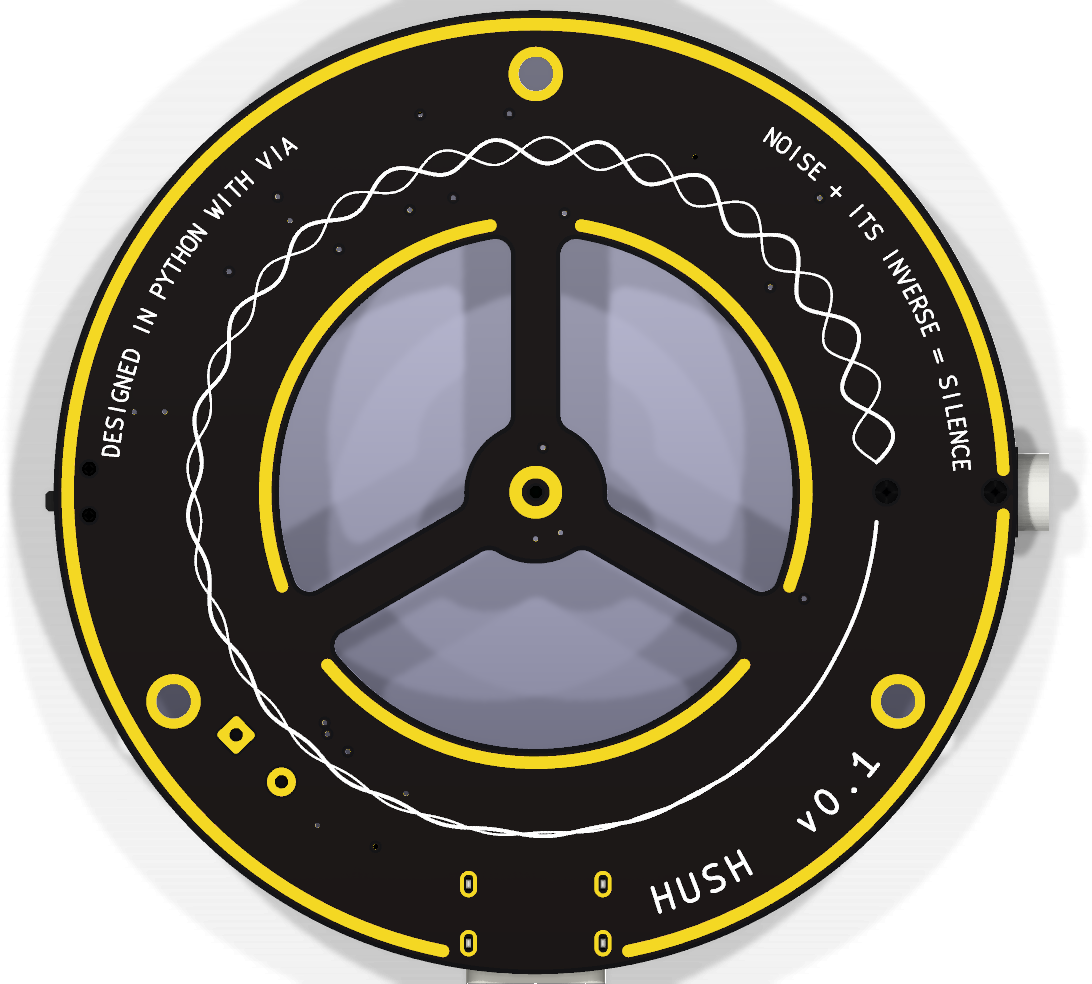
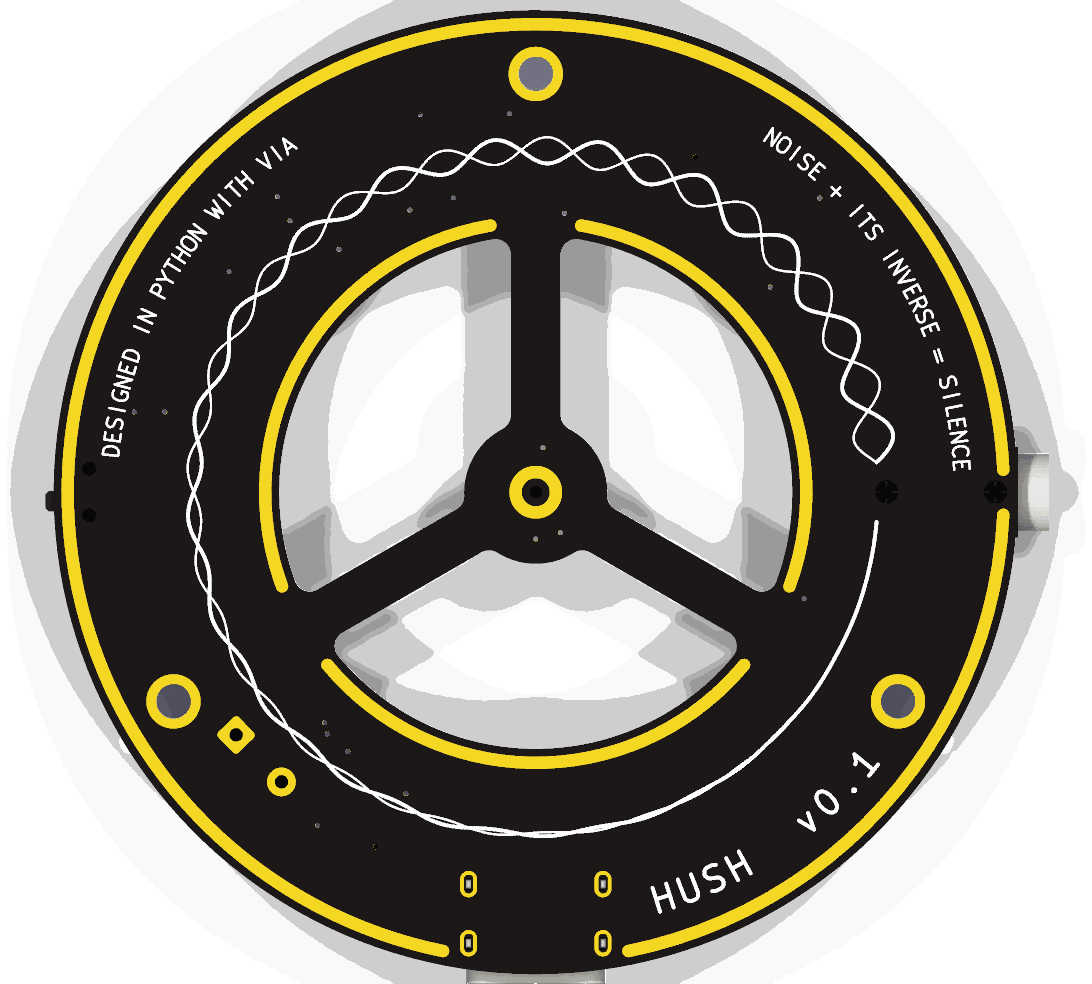
Site: lighter example pictures, Hush's openings clear, Signet led by its card
Each example picture is written in 256 colours with a clear palette slot,
at most twice as wide as a page shows it: a card is 23 to 78 KB, from up to
944 KB, and iso.png, which no page showed, is gone. A board with openings of
25 mm² or more through its outline has the backdrop it encloses taken out,
with the shadow round it, so Hush's ring shows the page through its
windows. A turning render whose frames cut the thing off is left out, and
the card's picture leads the page instead (Signet).

Changed region(s): [[0.4982, 0.2439, 0.7473, 0.6098], [0.3114, 0.5488, 0.685, 0.7622], [0.2491, 0.2439, 0.467, 0.6098]]

diff --git a/site/examples.html b/site/examples.html
@@ -76,7 +76,7 @@
             <p class="lede">Each example is a complete KiCad project in this repository, designed with Via from a Python design file. Open one to turn it in 3D, explore every track on the board, and read how it was built.</p>
           </div>
           <div class="built" data-reveal data-stagger>
-            <a class="proj" href="examples/hush.html"><div class="shot3d"><img src="examples/hush/iso.png" width="1101" height="821" loading="lazy" alt="Hush in 3D"></div><div><h3>Hush</h3><p>Hush is a speaker that listens to the room and plays the inverse wave.</p><p class="spec">v0.1 · 62 × 62 mm · 4 layers · 62 parts</p></div></a><a class="proj" href="examples/herald.html"><div class="shot3d"><img src="examples/herald/iso.png" width="1200" height="837" loading="lazy" alt="Herald in 3D"></div><div><h3>Herald</h3><p>A fire alarm communicator.</p><p class="spec">v0.1 · 84.4 × 64 mm · 4 layers · 127 parts</p></div></a><a class="proj" href="examples/signet.html"><div class="shot3d"><img src="examples/signet/iso.png" width="1113" height="851" loading="lazy" alt="Signet in 3D"></div><div><h3>Signet</h3><p>A mouse you wear as a ring.</p><p class="spec">v0.4 · GREEN on all 6 boards</p></div></a><a class="proj" href="examples/wyvern.html"><div class="shot3d"><img src="examples/wyvern/iso.png" width="1200" height="825" loading="lazy" alt="Wyvern in 3D"></div><div><h3>Wyvern</h3><p>A development board with a Snapdragon on it, on one flat board.</p><p class="spec">v0.2 · 76.2 × 53.3 mm · 6 layers · 94 parts</p></div></a><a class="proj" href="examples/basalt.html"><div class="shot3d"><img src="examples/basalt/iso.png" width="1200" height="778" loading="lazy" alt="Basalt in 3D"></div><div><h3>Basalt</h3><p>Basalt is a microATX motherboard for an AMD Threadripper 7000 or 9000 on the sTR5 socket (the TRX50 platform).</p><p class="spec">v0.3 · 243.8 × 243.8 mm · 10 layers · 179 parts</p></div></a><a class="proj" href="examples/rosetta.html"><div class="shot3d"><img src="examples/rosetta/iso.png" width="935" height="655" loading="lazy" alt="Rosetta in 3D"></div><div><h3>Rosetta</h3><p>A universal game controller, as a controller&#x27;s own main board.</p><p class="spec">v0.2 · 145.5 × 82 mm · 6 layers · 135 parts</p></div></a>
+            <a class="proj" href="examples/hush.html"><div class="shot3d"><img src="examples/hush/card.png" width="760" height="476" loading="lazy" alt="Hush in 3D"></div><div><h3>Hush</h3><p>Hush is a speaker that listens to the room and plays the inverse wave.</p><p class="spec">v0.1 · 62 × 62 mm · 4 layers · 62 parts</p></div></a><a class="proj" href="examples/herald.html"><div class="shot3d"><img src="examples/herald/card.png" width="760" height="530" loading="lazy" alt="Herald in 3D"></div><div><h3>Herald</h3><p>A fire alarm communicator.</p><p class="spec">v0.1 · 84.4 × 64 mm · 4 layers · 127 parts</p></div></a><a class="proj" href="examples/signet.html"><div class="shot3d"><img src="examples/signet/card.png" width="760" height="581" loading="lazy" alt="Signet in 3D"></div><div><h3>Signet</h3><p>A mouse you wear as a ring.</p><p class="spec">v0.4 · GREEN on all 6 boards</p></div></a><a class="proj" href="examples/wyvern.html"><div class="shot3d"><img src="examples/wyvern/card.png" width="760" height="522" loading="lazy" alt="Wyvern in 3D"></div><div><h3>Wyvern</h3><p>A development board with a Snapdragon on it, on one flat board.</p><p class="spec">v0.2 · 76.2 × 53.3 mm · 6 layers · 94 parts</p></div></a><a class="proj" href="examples/basalt.html"><div class="shot3d"><img src="examples/basalt/card.png" width="760" height="493" loading="lazy" alt="Basalt in 3D"></div><div><h3>Basalt</h3><p>Basalt is a microATX motherboard for an AMD Threadripper 7000 or 9000 on the sTR5 socket (the TRX50 platform).</p><p class="spec">v0.3 · 243.8 × 243.8 mm · 10 layers · 179 parts</p></div></a><a class="proj" href="examples/rosetta.html"><div class="shot3d"><img src="examples/rosetta/card.png" width="760" height="532" loading="lazy" alt="Rosetta in 3D"></div><div><h3>Rosetta</h3><p>A universal game controller, as a controller&#x27;s own main board.</p><p class="spec">v0.2 · 145.5 × 82 mm · 6 layers · 135 parts</p></div></a>
           </div>
         </div>
       </section>

diff --git a/site/index.html b/site/index.html
@@ -414,23 +414,23 @@ PASS   export     4/4 outputs, 24 gerber files  [1.55s]</span>
           </div>
           <div class="built" data-reveal data-stagger>
             <a class="proj" href="examples/herald.html">
-              <div class="shot3d"><img src="examples/herald/card.png" width="1200" height="837" loading="lazy" alt="Herald in 3D: a red board with an LTE-M module, a nano SIM, an ESP32-S3 module, a relay, status lights and black screw terminals"></div>
+              <div class="shot3d"><img src="examples/herald/card.png" width="760" height="530" loading="lazy" alt="Herald in 3D: a red board with an LTE-M module, a nano SIM, an ESP32-S3 module, a relay, status lights and black screw terminals"></div>
               <div><h3>Herald</h3><p>A fire alarm communicator that answers the panel's dialer as a phone line and reports over LTE-M or Wi-Fi.</p><p class="spec">84.4 × 64 mm · 4 layers · 127 parts</p></div>
             </a>
             <a class="proj" href="examples/hush.html">
-              <div class="shot3d"><img src="examples/hush/card.png" width="1200" height="751" loading="lazy" alt="Hush in 3D on its speaker: a black ring with 3 spokes to a microphone on the hub, parts round the ring, a line-in jack and a USB-C port at the edge"></div>
+              <div class="shot3d"><img src="examples/hush/card.png" width="760" height="476" loading="lazy" alt="Hush in 3D on its speaker: a black ring with 3 spokes to a microphone on the hub, parts round the ring, a line-in jack and a USB-C port at the edge"></div>
               <div><h3>Hush</h3><p>A speaker that cancels noise. A microphone in front of the cone drives an analog loop that plays back the inverse of what it hears.</p><p class="spec">62 mm across · 4 layers · 62 parts</p></div>
             </a>
             <a class="proj" href="examples/signet.html">
-              <div class="shot3d"><img src="examples/signet/card.png" width="1113" height="851" loading="lazy" alt="Signet in 3D: 6 black boards in a hexagonal ring, soldered edge to edge, the radio module on top and a foil cell at the bottom"></div>
+              <div class="shot3d"><img src="examples/signet/card.png" width="760" height="581" loading="lazy" alt="Signet in 3D: 6 black boards in a hexagonal ring, soldered edge to edge, the radio module on top and a foil cell at the bottom"></div>
               <div><h3>Signet</h3><p>A mouse worn as a ring. The cursor follows your hand, and your thumb scrolls and clicks.</p><p class="spec">6 boards around the finger · 4 layers each · 57 parts</p></div>
             </a>
             <a class="proj" href="examples/rosetta.html">
-              <div class="shot3d"><img src="examples/rosetta/card.png" width="935" height="655" loading="lazy" alt="Rosetta, the universal controller, in 3D: an Xbox 360-style board with 2 thumbsticks and a knob"></div>
+              <div class="shot3d"><img src="examples/rosetta/card.png" width="760" height="532" loading="lazy" alt="Rosetta, the universal controller, in 3D: an Xbox 360-style board with 2 thumbsticks and a knob"></div>
               <div><h3>Rosetta</h3><p>A game controller with a selector knob that switches between consoles, laid out like an Xbox 360 controller.</p><p class="spec">148 × 82 mm · 6 layers · 135 parts</p></div>
             </a>
             <a class="proj" href="examples/wyvern.html">
-              <div class="shot3d"><img src="examples/wyvern/card.png" width="1200" height="825" loading="lazy" alt="Wyvern v0.2 in 3D: one flat black board with 2 rows of 30 pins, a USB-C port and the QCS6490 module soldered on top"></div>
+              <div class="shot3d"><img src="examples/wyvern/card.png" width="760" height="522" loading="lazy" alt="Wyvern v0.2 in 3D: one flat black board with 2 rows of 30 pins, a USB-C port and the QCS6490 module soldered on top"></div>
               <div><h3>Wyvern</h3><p>A Snapdragon development board on one flat board: a QCS6490 module soldered on by its 662 pads, an RP2350 on the pins, and USB 3 over one USB-C port.</p><p class="spec">76 × 53 mm · 6 layers</p></div>
             </a>
             <a class="proj" href="https://github.com/ThyFriendlyFox/agentcast-prototype">

diff --git a/site/examples/signet.html b/site/examples/signet.html
@@ -78,13 +78,10 @@
             <p class="lede">Six small boards sit on the faces of a hexagonal ring round the index finger, each soldered to the next along its edge. Turn the ring's crown toward the thumb: the ring turns with the hand and the cursor follows its gyroscope; the thumb slides along the scroll strip to scroll, and presses the clicks tile for the left and the right button. The ring talks Bluetooth LE to the computer as an ordinary HID mouse and charges on a post through 2 pads inside it.</p>
             <ul class="chips" aria-label="The board"><li>v0.4</li><li class="ok">GREEN on all 6 boards</li></ul>
           </div>
-          <div class="turntable" data-turntable data-frames="36" data-columns="6" tabindex="0" role="img" aria-label="Signet in 3D, turning; drag or use the arrow keys to turn it">
-            <div class="tt-frames" style="aspect-ratio:616 / 368;background-image:url(signet/spin.webp)"></div>
-          </div>
-          <p class="tt-hint">Drag to turn the board. KiCad's render of it, 36 views, 10 degrees apart.</p>
+          <figure class="lead"><img src="signet/card.png" width="760" height="581" alt="Signet in 3D"><figcaption>KiCad's render of it.</figcaption></figure>
           <div class="stills">
-            <figure><img src="signet/top.png" width="1168" height="984" loading="lazy" alt="Signet, from above"><figcaption>From above</figcaption></figure>
-            <figure><img src="signet/bottom.png" width="1118" height="846" loading="lazy" alt="Signet, from behind"><figcaption>From behind</figcaption></figure>
+            <figure><img src="signet/top.png" width="1100" height="927" loading="lazy" alt="Signet, from above"><figcaption>From above</figcaption></figure>
+            <figure><img src="signet/bottom.png" width="1100" height="832" loading="lazy" alt="Signet, from behind"><figcaption>From behind</figcaption></figure>
           </div>
         </div>
       </section>

diff --git a/site/examples/wyvern.html b/site/examples/wyvern.html
@@ -83,8 +83,8 @@
           </div>
           <p class="tt-hint">Drag to turn the board. KiCad's render of it, 36 views, 10 degrees apart.</p>
           <div class="stills">
-            <figure><img src="wyvern/top.png" width="1136" height="811" loading="lazy" alt="Wyvern, the front"><figcaption>The front</figcaption></figure>
-            <figure><img src="wyvern/bottom.png" width="1110" height="821" loading="lazy" alt="Wyvern, the back"><figcaption>The back</figcaption></figure>
+            <figure><img src="wyvern/top.png" width="1100" height="785" loading="lazy" alt="Wyvern, the front"><figcaption>The front</figcaption></figure>
+            <figure><img src="wyvern/bottom.png" width="1100" height="814" loading="lazy" alt="Wyvern, the back"><figcaption>The back</figcaption></figure>
           </div>
         </div>
       </section>

diff --git a/site/examples/rosetta.html b/site/examples/rosetta.html
@@ -84,7 +84,7 @@
           <p class="tt-hint">Drag to turn the board. KiCad's render of it, 36 views, 10 degrees apart.</p>
           <div class="stills">
             <figure><img src="rosetta/top.png" width="1033" height="639" loading="lazy" alt="Rosetta, the front"><figcaption>The front</figcaption></figure>
-            <figure><img src="rosetta/bottom.png" width="1130" height="708" loading="lazy" alt="Rosetta, the back"><figcaption>The back</figcaption></figure>
+            <figure><img src="rosetta/bottom.png" width="1100" height="689" loading="lazy" alt="Rosetta, the back"><figcaption>The back</figcaption></figure>
           </div>
         </div>
       </section>

diff --git a/site/examples/basalt.html b/site/examples/basalt.html
@@ -84,7 +84,7 @@
           <p class="tt-hint">Drag to turn the board. KiCad's render of it, 36 views, 10 degrees apart.</p>
           <div class="stills">
             <figure><img src="basalt/top.png" width="1099" height="984" loading="lazy" alt="Basalt, the front"><figcaption>The front</figcaption></figure>
-            <figure><img src="basalt/bottom.png" width="1154" height="984" loading="lazy" alt="Basalt, the back"><figcaption>The back</figcaption></figure>
+            <figure><img src="basalt/bottom.png" width="1100" height="938" loading="lazy" alt="Basalt, the back"><figcaption>The back</figcaption></figure>
           </div>
         </div>
       </section>

diff --git a/site/examples/herald.html b/site/examples/herald.html
@@ -84,7 +84,7 @@
           <p class="tt-hint">Drag to turn the board. KiCad's render of it, 36 views, 10 degrees apart.</p>
           <div class="stills">
             <figure><img src="herald/top.png" width="1082" height="818" loading="lazy" alt="Herald, the front"><figcaption>The front</figcaption></figure>
-            <figure><img src="herald/bottom.png" width="1103" height="864" loading="lazy" alt="Herald, the back"><figcaption>The back</figcaption></figure>
+            <figure><img src="herald/bottom.png" width="1100" height="862" loading="lazy" alt="Herald, the back"><figcaption>The back</figcaption></figure>
           </div>
         </div>
       </section>

diff --git a/site/site.css b/site/site.css
@@ -2135,11 +2135,22 @@ html:not(.motion) .wordmark .wm-pt,
   font-size: 0.8125rem;
   color: var(--muted-foreground);
 }
+.lead {
+  max-width: 40rem;
+  margin: 2.5rem auto 0;
+}
+.lead figcaption {
+  margin-top: 0.75rem;
+  text-align: center;
+  font-size: 0.8125rem;
+  color: var(--muted-foreground);
+}
 .stills {
   display: grid;
   gap: 1.5rem;
   margin-top: 3rem;
 }
+.lead img,
 .stills img {
   width: 100%;
   height: auto;

diff --git a/site/examples.py b/site/examples.py
@@ -20,9 +20,10 @@ slug is the README title's first word (`# Herald v0.1: ...` and `# Hush — boar
 - From the board (`*.kicad_pcb` in the version folder): the size, the copper layers, the parts, the
   tracks and the vias, and `board.svg`, the board drawn from the file for the page's explorer. An
   example of several boards, each in a folder of its own, has no explorer.
-- With --pictures, from `docs/`: the board's 3D renders from the top, the bottom and the side (or
-  the assembly's, for an example with no board of its own) with KiCad's backdrop taken out
-  (`site/showcase/key.py`), and its turning render as `spin.webp`, its frames side by side.
+- With --pictures, from `docs/`: the board's 3D renders from the top and the bottom (or the
+  assembly's, for an example with no board of its own) and its card (the assembly's render where
+  there is one), with KiCad's backdrop taken out (`site/showcase/key.py`), in 256 colours; its
+  turning render as `spin.webp`, its frames side by side; and `pictures.json`, what each came from.
 
 The pages and the drawings are committed; the docs tests write them again and compare.
 """
@@ -55,11 +56,15 @@ WORDS = ["zero", "one", "two", "three", "four", "five", "six", "seven", "eight",
 PICTURES = {
     "top.png": ("board-3d-top.png", "assembly-top.png", "assembly-front.png"),
     "bottom.png": ("board-3d-bottom.png", "assembly-back.png", "assembly-iso-back.png"),
-    "iso.png": ("board-3d-iso.png", "assembly-iso.png"),
     "spin.webp": ("board-spin.gif", "assembly-spin.gif"),
     # The card that names the example on the site: the made thing, where there is more than a board.
     "card.png": ("assembly-iso.png", "board-3d-iso.png"),
 }
+# The widest each picture is written: twice the most a page shows it at. A picture is written in 256
+# colours with its transparency, a fifth of the bytes, and no banding a reader sees on a render.
+WIDTHS = {"top.png": 1100, "bottom.png": 1100, "card.png": 760}
+# Below this opacity a pixel of a picture is written clear: the shadow's faint edge, not the board.
+CLEAR = 8
 
 
 def words(n: int) -> str:
@@ -349,6 +354,20 @@ def outline(root) -> list[list[tuple[float, float]]]:
                 break
         loops.append(loop)
     return loops
+
+
+def openings(path: Path) -> int:
+    """The openings through the board, 25 mm² or more: the loops of its outline inside the largest.
+    A render shows KiCad's backdrop through each of them."""
+    loops = outline(k.parse(path.read_text(encoding="utf-8")))
+    areas = sorted(
+        (
+            abs(sum(x1 * y2 - x2 * y1 for (x1, y1), (x2, y2) in zip(loop, loop[1:] + loop[:1], strict=True))) / 2
+            for loop in loops
+        ),
+        reverse=True,
+    )
+    return sum(1 for a in areas[1:] if a >= 25)
 
 
 def simplify(points: list[tuple[float, float]], tolerance: float) -> list[tuple[float, float]]:
@@ -765,6 +784,11 @@ def example_page(ex: Example, board: Board | None, pictures: set[str]) -> str:
             <div class="tt-frames" style="aspect-ratio:{turn["width"]} / {turn["height"]};background-image:url({folder}spin.webp)"></div>
           </div>
           <p class="tt-hint">Drag to turn the board. KiCad's render of it, {turn["frames"]} views, {round(360 / turn["frames"])} degrees apart.</p>"""
+    elif "card.png" in pictures:
+        # No turning render that shows the whole of it: the card's picture stands in its place.
+        w, h = pictures_size(ex, "card.png")
+        spin = f"""
+          <figure class="lead"><img src="{folder}card.png" width="{w}" height="{h}" alt="{html.escape(ex.name)} in 3D"><figcaption>KiCad's render of it.</figcaption></figure>"""
     stills = ""
     if {"top.png", "bottom.png"} <= pictures:
         figures = []
@@ -957,11 +981,11 @@ def pictures_size(ex: Example, name: str) -> tuple[int, int]:
 def index_page(found: list[tuple[Example, Board | None]]) -> str:
     cards = []
     for ex, board in found:
-        picture = OUT / ex.slug / "iso.png"
+        picture = OUT / ex.slug / "card.png"
         shot = ""
         if picture.is_file():
-            w, h = pictures_size(ex, "iso.png")
-            shot = f'<div class="shot3d"><img src="examples/{ex.slug}/iso.png" width="{w}" height="{h}" loading="lazy" alt="{html.escape(ex.name)} in 3D"></div>'
+            w, h = pictures_size(ex, "card.png")
+            shot = f'<div class="shot3d"><img src="examples/{ex.slug}/card.png" width="{w}" height="{h}" loading="lazy" alt="{html.escape(ex.name)} in 3D"></div>'
         spec = " · ".join(html.escape(s) for s in stats(ex, board)[:4])
         cards.append(
             f'<a class="proj" href="examples/{ex.slug}.html">{shot}<div><h3>{html.escape(ex.name)}</h3>'
@@ -992,35 +1016,68 @@ def index_page(found: list[tuple[Example, Board | None]]) -> str:
 # ---------------------------------------------------------------- pictures
 
 
+def few_colours(picture):
+    """`picture` in 255 colours and 1 clear, every pixel fainter than CLEAR on the clear one: a palette
+    alone puts the backdrop on the nearest shadow colour, and a grey box shows round the board."""
+    from PIL import Image
+
+    clear = picture.getchannel("A").point(lambda a: 255 if a < CLEAR else 0)
+    picture = picture.quantize(colors=255, method=Image.Quantize.FASTOCTREE, dither=Image.Dither.FLOYDSTEINBERG)
+    palette = picture.getpalette(rawmode="RGBA")
+    palette += [0] * (256 * 4 - len(palette))
+    palette[255 * 4 : 256 * 4] = [0, 0, 0, 0]
+    picture.putpalette(palette, rawmode="RGBA")
+    picture.paste(255, mask=clear)
+    return picture
+
+
 def write_pictures(ex: Example) -> None:
     sys.path.insert(0, str(SITE / "showcase"))
     import key
     from PIL import Image
 
-    def keyed(picture: Image.Image, holes: bool) -> Image.Image:
-        """The picture with KiCad's backdrop taken out, or as it is when its corners are clear. An
-        assembly's render (a ring round a finger) has the backdrop in its middle too."""
+    # A board with openings through it (Hush's ring) shows the backdrop in its middle, as an
+    # assembly's render does (a ring round a finger); any other board's render keeps what is enclosed,
+    # a module's lid as pale as the backdrop.
+    through = ex.board is not None and openings(ex.board) > 0
+
+    def keyed(picture: Image.Image, source: Path) -> Image.Image:
+        """The picture with KiCad's backdrop taken out, or as it is when its corners are clear."""
         rgba = picture.convert("RGBA")
         w, h = rgba.size
         if all(rgba.getpixel(c)[3] == 0 for c in ((0, 0), (w - 1, 0), (0, h - 1), (w - 1, h - 1))):
             return rgba
-        return key.key(picture, holes=holes)
+        return key.key(picture, holes=through or source.name.startswith("assembly"))
+
+    def turning(source: Path) -> list[Image.Image] | None:
+        """The turning render's frames, or None when the camera cut the thing off: a frame where it
+        runs from the top edge to the bottom or from side to side is not the whole of it."""
+        gif = Image.open(source)
+        frames = []
+        for i in range(gif.n_frames):
+            gif.seek(i)
+            frame = keyed(gif, source)
+            box = frame.getchannel("A").point(lambda a: 255 if a > 128 else 0).getbbox()
+            if box and (box[1] == 0 and box[3] == frame.height or box[0] == 0 and box[2] == frame.width):
+                print(f"site/examples/{ex.slug}/spin.webp: left out, {source.name} cuts it off at frame {i}")
+                return None
+            frames.append(frame)
+        return frames
 
     docs = ex.folder / "docs"
     folder = OUT / ex.slug
     folder.mkdir(parents=True, exist_ok=True)
     record: dict = {"sources": {}}
     for name, sources in PICTURES.items():
+        (folder / name).unlink(missing_ok=True)
         source = next((docs / s for s in sources if (docs / s).is_file()), None)
         if source is None:
             continue
-        record["sources"][name] = source.name
         if name == "spin.webp":
-            gif = Image.open(source)
-            frames = []
-            for i in range(gif.n_frames):
-                gif.seek(i)
-                frames.append(keyed(gif, source.name.startswith("assembly")))
+            frames = turning(source)
+            if frames is None:
+                continue
+            record["sources"][name] = source.name
             w, h = frames[0].size
             rows = math.ceil(len(frames) / SPIN_COLUMNS)
             sheet = Image.new("RGBA", (w * SPIN_COLUMNS, h * rows), (0, 0, 0, 0))
@@ -1032,11 +1089,14 @@ def write_pictures(ex: Example) -> None:
                 f"site/examples/{ex.slug}/{name}: {len(frames)} frames of {w} x {h}, {(folder / name).stat().st_size // 1024} KB"
             )
             continue
-        picture = keyed(Image.open(source), source.name.startswith("assembly"))
+        record["sources"][name] = source.name
+        picture = keyed(Image.open(source), source)
         box = picture.getchannel("A").getbbox()
         picture = picture.crop(box) if box else picture
-        if picture.width > 1200:
-            picture = picture.resize((1200, round(picture.height * 1200 / picture.width)), Image.LANCZOS)
+        widest = WIDTHS[name]
+        if picture.width > widest:
+            picture = picture.resize((widest, round(picture.height * widest / picture.width)), Image.LANCZOS)
+        picture = few_colours(picture)
         picture.save(folder / name, optimize=True)
         print(f"site/examples/{ex.slug}/{name}: {picture.width} x {picture.height}, from {source.name}")
     (folder / "pictures.json").write_text(json.dumps(record, indent=1) + "\n", encoding="utf-8")

diff --git a/site/showcase/key.py b/site/showcase/key.py
@@ -8,8 +8,9 @@ colour, or lavender (blue over red and green, red and green alike: the backdrop,
 GIF's dither of both), and joined to the border through pixels like it, is backdrop. It becomes
 clear, or, where it is darker than its row, a neutral shadow as dark. No board colour is lavender:
 green, black, white, grey, gold. What the border reaches is taken out. --holes also takes out a
-wide area of the backdrop's own colour that the board encloses, such as a ring's middle; it is not
-the default, since a board's metal lid mirrors the backdrop in colours close to it. --frame N takes
+wide area of the backdrop's own colour that the board encloses, such as a ring's middle, and the
+shadow round it; it is not the default, since a board's metal lid mirrors the backdrop in colours
+close to it. --frame N takes
 frame N of an animated GIF; --crop trims the clear margin.
 Needs numpy and Pillow, both in the workcenter's venv.
 """
@@ -69,6 +70,15 @@ def key(picture: Image.Image, holes: bool = False) -> Image.Image:
             wide = ~grow(~wide)
         for _ in range(OPEN):
             wide = grow(wide) & seen
+        # Of it, what is like the backdrop by the border's own test, and from there, through pixels
+        # like it, as from the border: the shadow the hole's walls cast is darker than its row, and
+        # lavender still. A silver part that mirrors the backdrop is mostly not like it, and stays.
+        wide &= like
+        while True:
+            grown = grow(wide) & like
+            if (grown == wide).all():
+                break
+            wide = grown
         clear |= wide
 
     # Backdrop as bright as its row is clear; darker, it is the board's shadow, in grey.

diff --git a/ee-agent-kit/CHANGELOG.md b/ee-agent-kit/CHANGELOG.md
@@ -6,7 +6,7 @@ Format: [Keep a Changelog](https://keepachangelog.com/) · Versioning: [SemVer](
 ## [Unreleased]
 ### Changed
 - The website is redrawn, with the text-to-cad site as the owner's reference. Under the owner's headline, "Circuit Boards From AI", the home page opens with the wordmark built as a board is: sketched, its corners set, its copper laid, its traces run. Then the install line and a strip of the 21 agents Via works with, which drifts and which a mouse, a swipe or the arrow keys move. Below the strip: Herald's section as it was (its labelled parts, its hard parts, its 3D model, its gates run), then the 6 boards as cards in 3D, each linked to its own page. The 4 checks are 6 drawings in ink on dotted paper, each of a check catching a fault in a test circuit, with the numbers its run printed: an ERC fault from Rosetta's first wired sheet, a 0.05 mm clearance, a reference that leaves its window at 85 C, a harmonic on a filter's peak, a route, the fab's layers; then `workcenter next` and the 2 runs of the gates. The sections "Process", "Simulation" and "Works with any agent" leave the page; the strip and the drawings say what they said. The accent is a steel blue. The 404 page and the README's first picture carry the wordmark.
-- Each of the 6 examples in `examples/` has its own page, written by `site/examples.py` from the example's files: the newest README's name, line and first paragraph, "What is hard about it" and "What is open" or "Open items"; every version's steps, from its `TIMELINE.md` (a new one for Rosetta v0.1) or the README's "What changed" sections; the checks of its last run or of `docs/gates.md`; and the board file. Each page has the board in 3D that a drag turns (KiCad's turning render, the backdrop taken out by `site/showcase/key.py`), its front and back, a board explorer drawn from its `.kicad_pcb` (every copper layer on and off, zoom and pan, a net followed through its tracks, vias and pads, a part named), its checks, its steps and what is open. Signet, 6 boards in folders of their own, gives each board's verdict and no explorer. `site/examples.html` lists them.
+- Each of the 6 examples in `examples/` has its own page, written by `site/examples.py` from the example's files: the newest README's name, line and first paragraph, "What is hard about it" and "What is open" or "Open items"; every version's steps, from its `TIMELINE.md` (a new one for Rosetta v0.1) or the README's "What changed" sections; the checks of its last run or of `docs/gates.md`; and the board file. Each page has the board in 3D that a drag turns (KiCad's turning render, the backdrop taken out by `site/showcase/key.py`), its front and back, a board explorer drawn from its `.kicad_pcb` (every copper layer on and off, zoom and pan, a net followed through its tracks, vias and pads, a part named), its checks, its steps and what is open. Signet, 6 boards in folders of their own, gives each board's verdict and no explorer; its turning render cuts the ring off at the top and the bottom, so its page leads with the ring at an angle instead. Hush's ring shows the page through its 3 openings: `key.py` takes out the backdrop a board with openings encloses, with the shadow round it. Each picture is in 256 colours, at most twice as wide as a page shows it: a card is 23 to 78 KB, from up to 944 KB. `site/examples.html` lists them.
 - `tests/test_docs.py` holds the new pages: their runs against fresh runs (8 runs in 3 documents), every link and picture of each page, the build's copy and checksum of each page's stylesheet and scripts, each example page against what `site/examples.py` writes, and each value a check's drawing marks against its test circuit's files or a run on the page.
 - `workcenter design --route` and `workcenter autoroute` start FreeRouting with `-dct 0`. Release 1.9.0 waited 20 s before each route for a click on a dialog that asks to confirm the start, on a headless display too. The same session file comes out: a board of 4 parts routes in 6 s where it took 25 s, and each test that routes loses the wait. The landmine map said that 1.9.0 has no network code; its log shows a version check that fails, and the row says so now.
 - `workcenter doctor`: the first line names what is absent (`workcenter ee: degraded, without freerouting`), and an absent Claude Code hook no longer makes it `degraded`. After a clean `sudo ./install.sh` the line read `degraded` for 2 hooks that the install does not write. Each hook keeps its line.

diff --git a/site/README.md b/site/README.md
@@ -43,7 +43,7 @@ empty.
 |---|---|
 | `index.html` | The home page: the hero (the wordmark built as a board is, the owner's headline, the install line and the agents' strip), Herald, the boards, the checks, design as code, the architecture and getting started. `%ORIGIN%` marks each line that needs the site's address. `?theme=dark` and `?theme=light` ask for a theme; `?shot=diagram` shows the diagram alone, for a capture. |
 | `examples.html`, `examples/<name>.html` | The list of examples, and 1 page for each. `examples.py` writes them; do not edit them by hand. |
-| `examples/<name>/` | What an example's page shows: `board.svg`, the board drawn from its file for the explorer; `spin.webp`, the turntable's views side by side; `top.png`, `bottom.png` and `iso.png`, KiCad's renders with the backdrop taken out; `card.png`, the picture on its card (the assembly where there is one); `pictures.json`, the render each came from and the turntable's frames. |
+| `examples/<name>/` | What an example's page shows: `board.svg`, the board drawn from its file for the explorer; `spin.webp`, the turntable's views side by side, where they show the whole of it; `top.png` and `bottom.png`, KiCad's renders with the backdrop taken out, at most 1100 px wide; `card.png`, the picture on its card (the assembly where there is one), 760 px wide; all 3 in 256 colours; `pictures.json`, the render each came from and the turntable's frames. |
 | `examples.py` | Writes the example pages. "The example pages" below says what it reads. |
 | `404.html` | The page a host serves for an unknown path. |
 | `site.css` | The look: the colour tokens for light and dark, the type scale, every component. `media/hero.html` takes its cards from it. |
@@ -128,9 +128,13 @@ python3 site/examples.py
 The renders come from `workcenter render` on the example, in its `docs/`.
 `python3 -B site/examples.py --pictures` takes KiCad's backdrop out of
 them, crops and scales them, and lays the turntable's frames side by side.
-An assembly's render (Signet round a finger) also has the backdrop that its
-boards enclose taken out (`--holes`); a board's render does not, since a
-metal lid mirrors the backdrop. Agentcast's card was keyed the same way,
+An assembly's render (Signet round a finger), and the render of a board with
+an opening of 25 mm² or more through its outline (Hush's ring), also has the
+backdrop they enclose taken out (`--holes`), with the shadow round it; any
+other board's render does not, since a metal lid mirrors the backdrop. A
+turning render whose frames cut the thing off (Signet's, at the top and the
+bottom) is left out, and the card's picture leads the page in its place.
+Agentcast's card was keyed the same way,
 once, from the render in its own repository (v0.5):
 
 ```sh
